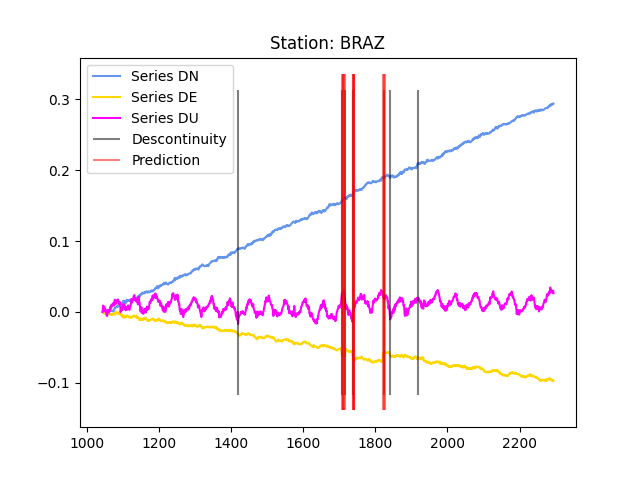
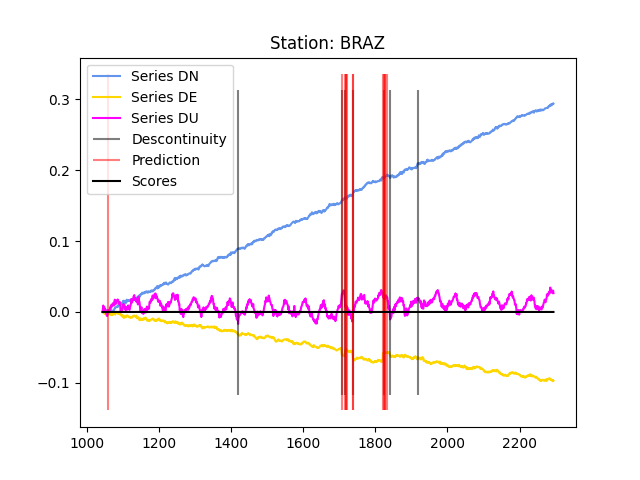
Process all Stations

Changed region(s): [[0.1562, 0.1562, 0.8438, 0.875], [0.125, 0.3438, 0.2812, 0.4062]]

diff --git a/process_stations/process_stations.py b/process_stations/process_stations.py
@@ -1,0 +1,65 @@
+import numpy as np
+import sklearn
+
+import sys
+sys.path.append('.')
+from station_trainer.station_trainer import StationTrainer
+
+def read_stations_file(stations_file:str) -> list:
+    try:
+        with open(stations_file) as file:
+            content = file.read()
+            content = content.replace(' ', '')
+            return content.split(',')
+    except FileNotFoundError as e:
+        print(f"Error: File '{stations_file}' not found.")
+        return []
+    except Exception as e:
+        print(f"Error reading file '{stations_file}': {e}")
+        return []
+        
+def process_stations(stations:list):
+    stations = ['BRAZ', 'CHEC']
+    total_truth = []
+    total_pred = []
+    for station in stations:
+        # Our station trainer
+        station_trainer = StationTrainer(station=station, use_du=False)
+
+        # Actual training
+        scores, truth, pred = station_trainer.train()
+        total_truth.append(truth)
+        total_pred.append(pred)
+
+        # Ploting the graph in the dataset/{station} folder
+        station_trainer.plot_experiment(scores=scores, pred=pred)
+
+    # Stacking truth and pred
+    stacked_truth = np.hstack([*total_truth])
+    stacked_pred = np.hstack([*total_pred])
+
+    precision, recall, f1_score, support = sklearn.metrics.precision_recall_fscore_support(stacked_pred, stacked_truth)
+    accuracy = sklearn.metrics.accuracy_score(stacked_pred, stacked_truth)
+    f1 = sklearn.metrics.f1_score(stacked_pred, stacked_truth)
+    
+    print(f"Global Accuracy: {accuracy}")
+    print(f"Global Precision: {precision}")
+    print(f"Global Recall: {recall}")
+    print(f"Global F1 score: {f1}")
+
+    with open('dataset/global_metrics.txt', '+w') as result:
+        result.write(
+            f'''
+            Global metrics over all stations:
+            Global Accuracy -> {accuracy}
+            Global Precision -> {precision}
+            Global Recall -> {recall}
+            Global F1 -> {f1}
+            '''
+        )
+
+if __name__ == '__main__':
+    stations_filepath = 'dataset/brazil_stations.txt'
+    stations = read_stations_file(stations_filepath)
+
+    process_stations(stations=stations)

diff --git a/station_trainer/station_trainer.py b/station_trainer/station_trainer.py
@@ -1,14 +1,14 @@
 from matplotlib import pyplot as plt
 import numpy as np
 import pandas as pd
-#from deepod.models.time_series import TimesNet as Model
-import sys
-sys.path.append('.')
-from model.timesnet import TimesNet as Model
 import sklearn
 import pandas as pd
 import numpy as np
-import os
+
+# Importing our custom TimesNet with Convergence Early Stop
+import sys
+sys.path.append('.')
+from model.timesnet import TimesNet as Model
 
 class StationTrainer():
     def __init__(self, station:str, use_du:bool) -> None:
@@ -44,9 +44,9 @@ class StationTrainer():
             'device': 'mps', 
             'pred_len': 0, 
             'e_layers': 3, 
-            'd_model': 64, 
-            'd_ff': 64, 
-            'dropout': 0.2, 
+            'd_model': 128, 
+            'd_ff': 128, 
+            'dropout': 0.3, 
             'top_k': 3, 
             'num_kernels': 6, 
             'verbose': 2, 
@@ -100,7 +100,7 @@ class StationTrainer():
 
         return scores, truth, pred
 
-    def plot_experiment(self, pred:np.array) -> None:
+    def plot_experiment(self, scores:np.array, pred:np.array) -> None:
         plt.clf()
         #plotting data
         plt.plot(self.gnss_data.gps_week, self.gnss_data['dn(m)'], color = 'cornflowerblue', label = 'Series DN')
@@ -116,6 +116,9 @@ class StationTrainer():
         predictions = self.gnss_label[self.gnss_label.pred == 1]
         plt.vlines(predictions.gps_week, ymin=plt.ylim()[0], ymax=plt.ylim()[1], color = 'red', alpha=0.5, label='Prediction')
 
+        # Plotting scores
+        plt.plot(self.gnss_data.gps_week, scores, color = 'black', label = 'Scores')
+
         plt.legend()
         plt.title(f'Station: {self.station}', loc='center')
         plt.savefig(self.png_path, format='png')
@@ -125,6 +128,5 @@ if __name__ == '__main__':
     station_trainer = StationTrainer(station=station, use_du=False)
 
     scores, truth, pred = station_trainer.train()
-    print(scores.shape, truth.shape, pred.shape)
 
-    station_trainer.plot_experiment(pred)
+    station_trainer.plot_experiment(scores=scores, pred=pred)

diff --git a/nni_experiment/nni_timesnet_experiment.py b/nni_experiment/nni_timesnet_experiment.py
@@ -1,16 +1,16 @@
-from matplotlib import pyplot as plt
 import numpy as np
 import pandas as pd
-#from deepod.models.time_series import TimesNet as Model
-import sys
-sys.path.append('.')
-from model.timesnet import TimesNet as Model
 import sklearn
 import nni
 import pandas as pd
 import numpy as np
 import logging
 import os
+
+# Importing our custom TimesNet with Convergence Early Stop
+import sys
+sys.path.append('.')
+from model.timesnet import TimesNet as Model
 
 def get_data(gnss_data_path: str, gnss_label_path:str) -> tuple[pd.DataFrame, pd.DataFrame]:
     return pd.read_csv(gnss_data_path), pd.read_csv(gnss_label_path)
@@ -78,9 +78,9 @@ def exec_process(station:str, use_du:bool = False):
         'device': 'mps', 
         'pred_len': 0, 
         'e_layers': 3, 
-        'd_model': 64, 
-        'd_ff': 64, 
-        'dropout': 0.2, 
+        'd_model': 128, 
+        'd_ff': 128, 
+        'dropout': 0.3, 
         'top_k': 3, 
         'num_kernels': 6, 
         'verbose': 2, 
@@ -107,4 +107,4 @@ def exec_process(station:str, use_du:bool = False):
     nni.report_final_result(f1)
 
 if __name__ == '__main__':
-    exec_process('CHEC', False)
+    exec_process('BRAZ', False)

diff --git a/model/timesnet.py b/model/timesnet.py
@@ -7,7 +7,6 @@ import math
 import time
 from deepod.utils.utility import get_sub_seqs
 from deepod.core.base_model import BaseDeepAD
-import os
 
 class EarlyStop:
     def __init__(self, patience, delta, verbose=True):
